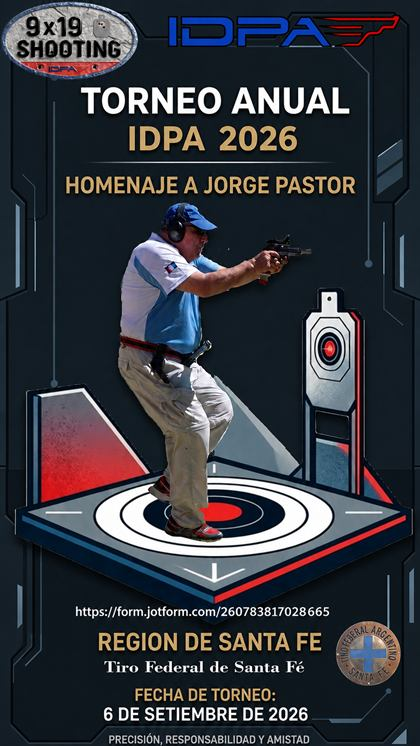
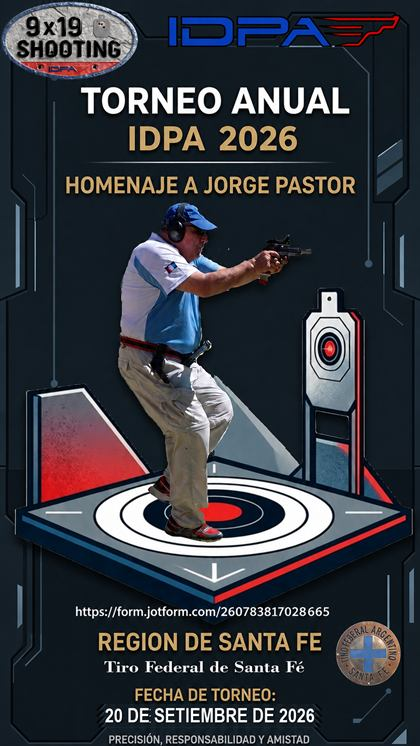
La fecha del 20 tambien en el afiche y en el calendario
En el afiche de Santa Fe, la linea de la fecha se tapo con fondo de la
misma imagen y se reescribio en Arial Narrow, sin tocar los adornos de
los costados. En el calendario se reemplazo solo el numero, con un parche
de textura tomado de la misma columna para que el tono calce.

Los originales quedan actualizados en originales/.

Changed region(s): [[0.2476, 0.9249, 0.8357, 0.9866]]

diff --git a/index.html b/index.html
@@ -65,9 +65,9 @@
         </svg>
       </a>
 
-      <a class="aparte" href="assets/calendario-2026-web.jpg?v=2"
-         data-imagen="assets/calendario-2026-web.jpg?v=2"
-         data-imagen-grande="assets/calendario-2026.jpg?v=2"
+      <a class="aparte" href="assets/calendario-2026-web.jpg?v=3"
+         data-imagen="assets/calendario-2026-web.jpg?v=3"
+         data-imagen-grande="assets/calendario-2026.jpg?v=3"
          data-texto-imagen="Calendario 2026 del Club 9x19 Shooting: fechas tentativas de la Región Santa Fe y la Región Cuyo">
         <span aria-hidden="true">📅</span> Calendario 2026
       </a>
@@ -145,10 +145,10 @@
       </article>
 
       <article class="proxima-fecha" data-hasta="2026-09-20">
-        <a class="afiche" href="assets/afiches/santa-fe.jpg"
-           data-imagen="assets/afiches/santa-fe.jpg"
+        <a class="afiche" href="assets/afiches/santa-fe.jpg?v=2"
+           data-imagen="assets/afiches/santa-fe.jpg?v=2"
            data-texto-imagen="Afiche del Torneo Anual IDPA 2026, homenaje a Jorge Pastor, en el Tiro Federal Argentino de Santa Fe, 20 de septiembre de 2026">
-          <img src="assets/afiches/santa-fe-mini.jpg" alt="Afiche del torneo" loading="lazy">
+          <img src="assets/afiches/santa-fe-mini.jpg?v=2" alt="Afiche del torneo" loading="lazy">
         </a>
 
         <div class="cuando">
